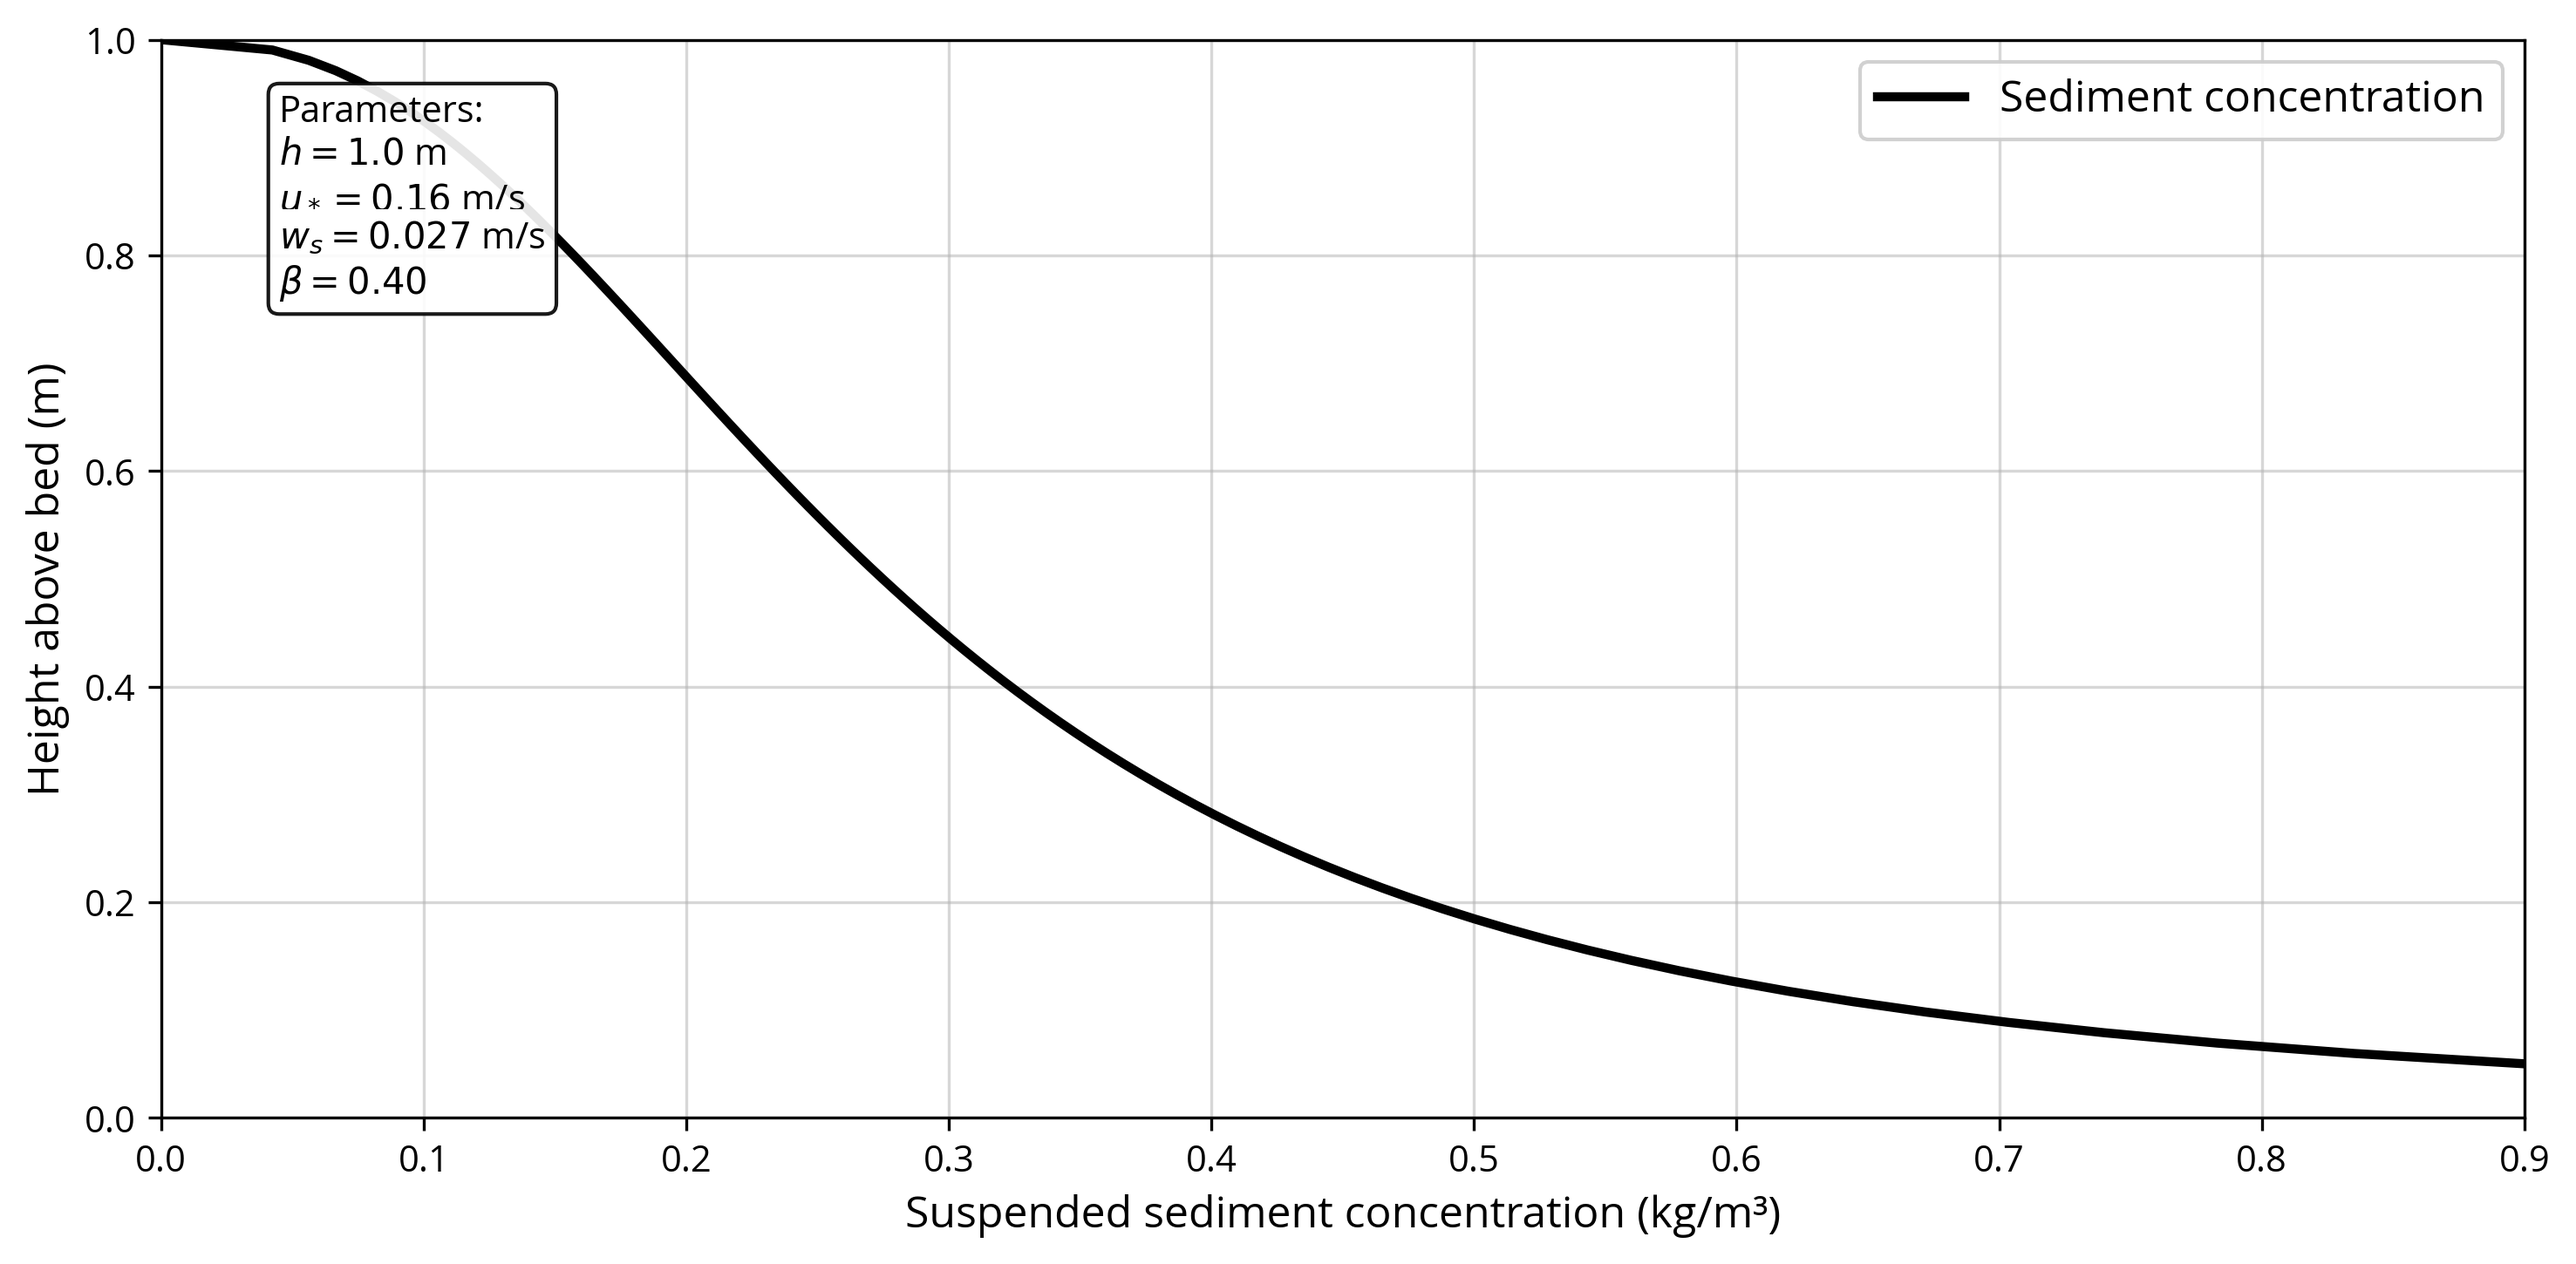
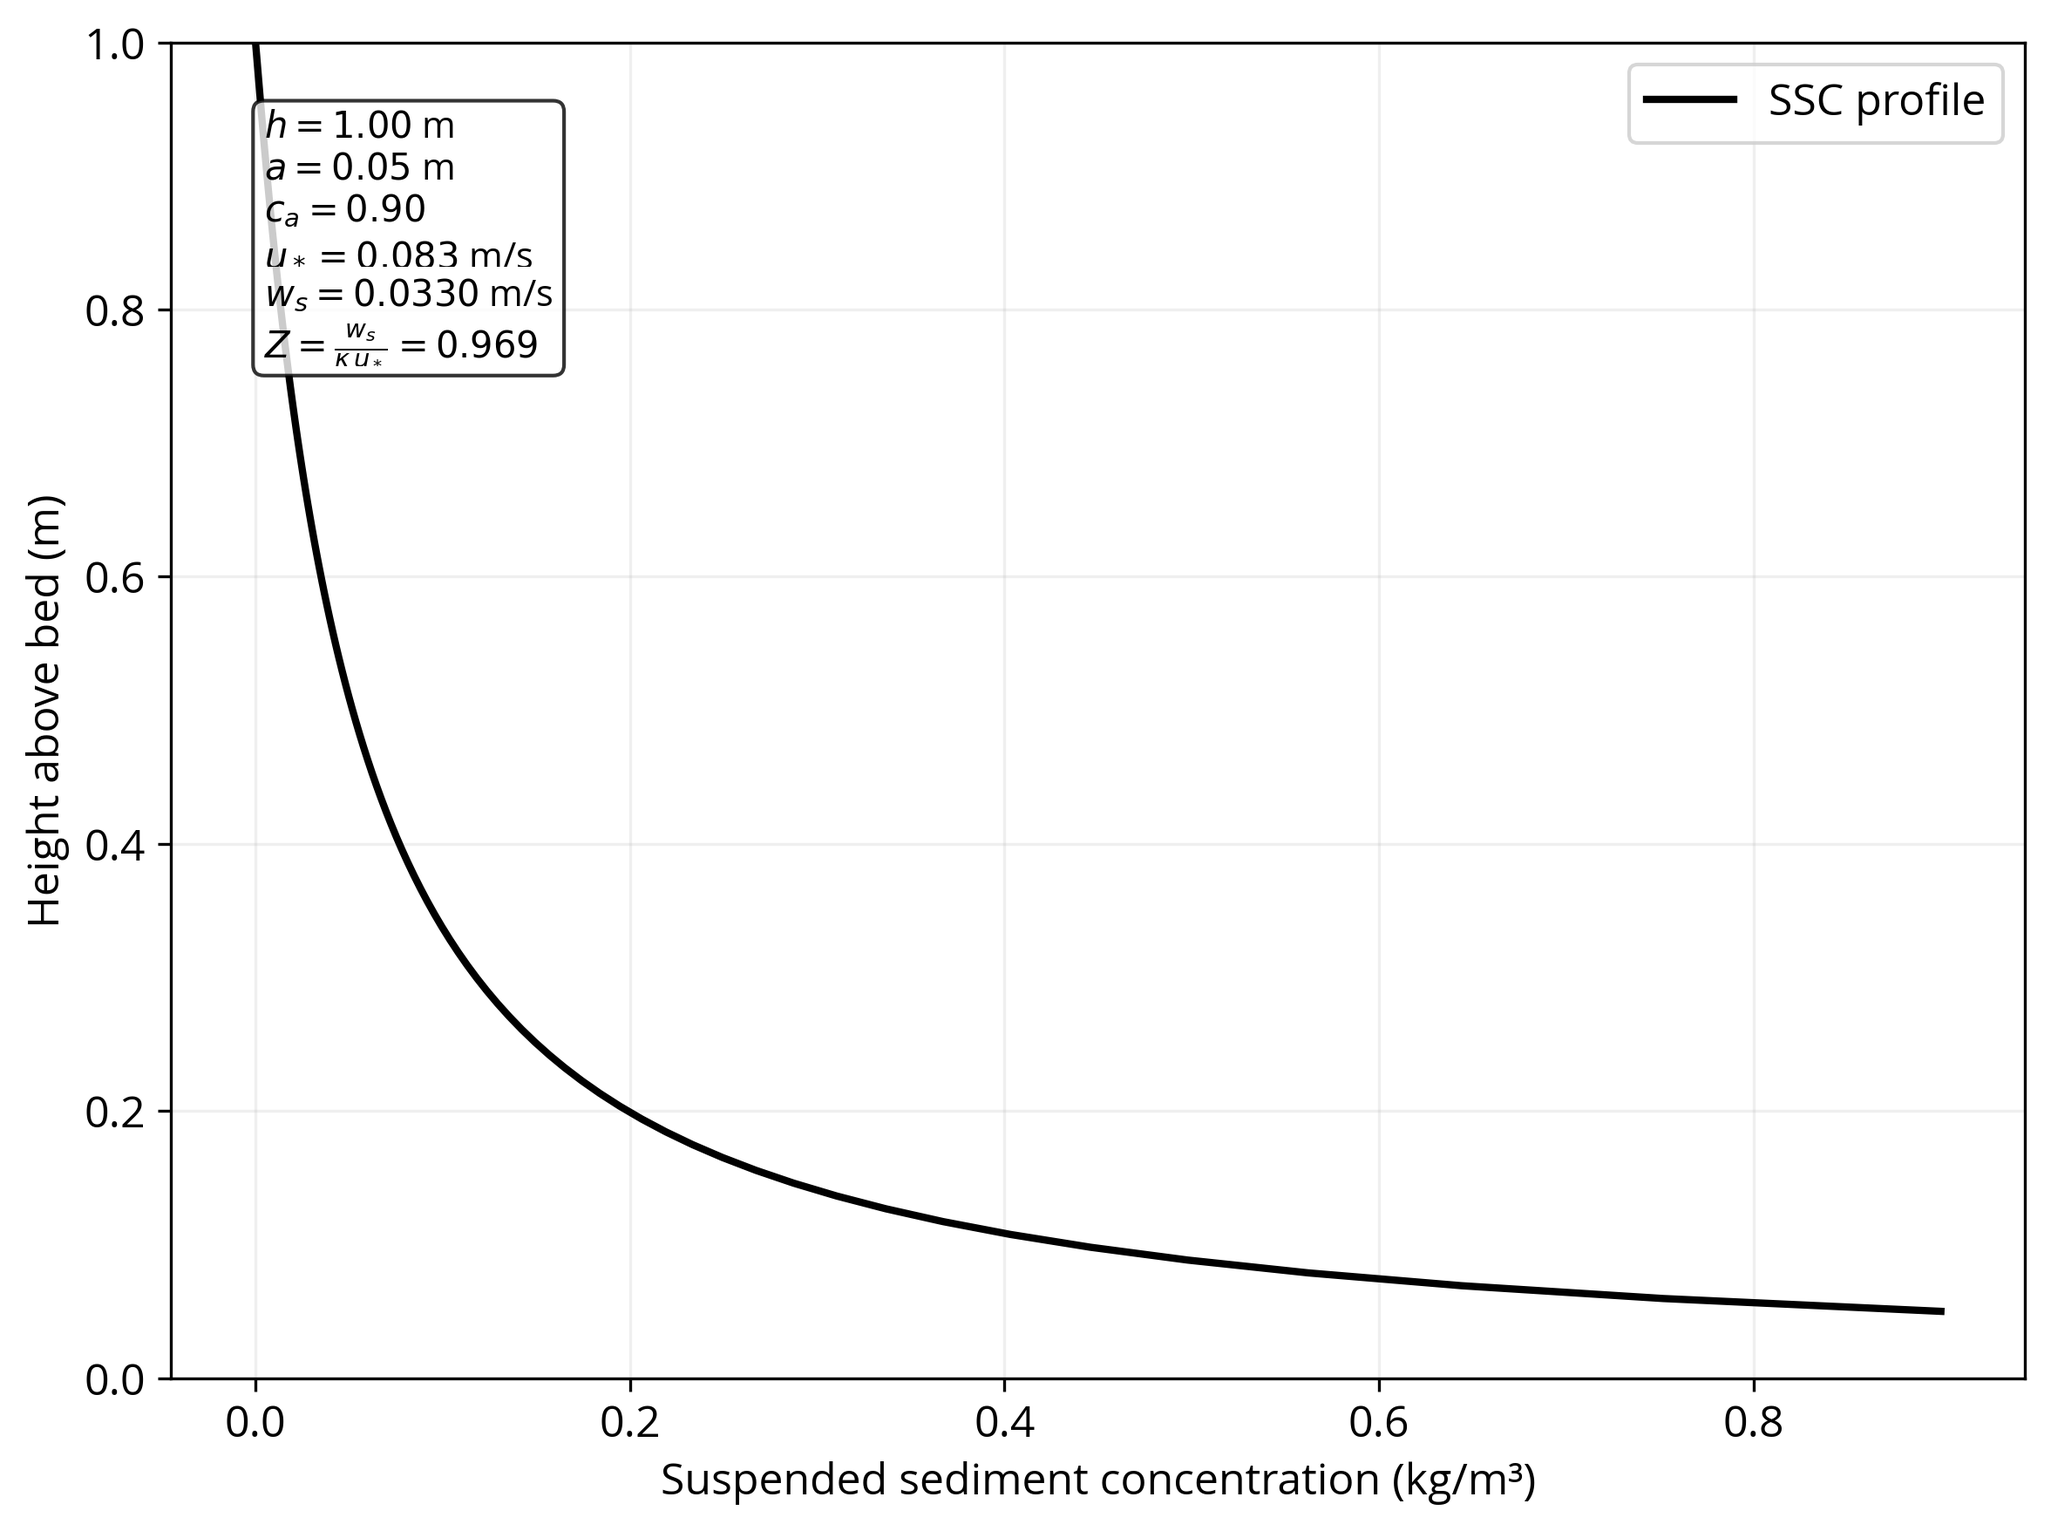
added sweep function

diff --git a/Rouse-profile-app/plot_Rouse_profile_ssc.py b/Rouse-profile-app/plot_Rouse_profile_ssc.py
@@ -3,21 +3,21 @@ import math
 import numpy as np
 import matplotlib.pyplot as plt
 
-# USER INPUT PARAMETERS
-USER_FLOW_VELOCITY = 2.1  # m/s
-USER_WATER_DEPTH = 1.0    # m 
-USER_D50 = 200e-6        # m (200 micro m, typical suspended sediment size)
-USER_REF_HEIGHT = 0.05    # m (reference height above bed)
-USER_REF_CONC = 0.9      # kg/m³ (typical reference concentration)
+# USER INPUT PARAMETERS (defaults)
+USER_FLOW_VELOCITY = 2.1   # m/s
+USER_WATER_DEPTH   = 1.0   # m
+USER_D50           = 200e-6 # m
+USER_REF_HEIGHT    = 0.05  # m
+USER_REF_CONC      = 0.90  # kg/m³
 
 # CONSTANTS
 RHO_F = 1000.0  # water density (kg/m³)
 RHO_S = 2650.0  # sediment grain density (kg/m³)
-MU = 0.001      # dynamic viscosity (Pa*s)
-G = 9.81        # gravitational acceleration (m/s²)
-KAPPA = 0.41    # von Karman constant (-)
+MU    = 0.001   # dynamic viscosity (Pa·s)
+G     = 9.81    # gravitational acceleration (m/s²)
+KAPPA = 0.41    # von Kármán constant (-)
 
-# Set global font and style
+# Optional style settings
 plt.rcParams['axes.grid'] = True
 plt.rcParams['grid.alpha'] = 0.2
 plt.rcParams['font.family'] = 'Open Sans'
@@ -25,122 +25,172 @@ plt.rcParams['font.size'] = 12
 
 
 def get_particle_settling_velocity(U, h, d, print_results=True):
-    """Calculate particle settling velocity w_s using van Rijn (1984) method"""
+    """
+    Calculate particle settling velocity w_s using a simplified 
+    van Rijn (1984) approach.
+    """
     # Dimensionless particle diameter
     D_star = d * ((RHO_S - RHO_F) * G / (RHO_F * MU**2))**(1/3)
     
-    # Calculate settling velocity based on D_star (van Rijn, 1984)
+    # Calculate settling velocity based on D_star
     if D_star <= 10:
-        ws = ((RHO_S - RHO_F) * G * d**2) / (18 * MU)  # Stokes
+        # Stokes
+        ws = ((RHO_S - RHO_F) * G * d**2) / (18 * MU)
     elif D_star <= 1000:
-        ws = (MU/RHO_F) * (10.0/d) * (((1 + 0.01 * D_star**3)**0.5) - 1)
+        # Transitional
+        ws = (MU / RHO_F) * (10.0 / d) * ((1 + 0.01 * D_star**3)**0.5 - 1)
     else:
+        # Turbulent
         ws = 1.1 * ((RHO_S - RHO_F) * G * d / RHO_F)**0.5
-        
-    # Apply turbulent correction
-    Fr = U / math.sqrt(G * h)
-    correction_factor = 1 / (1 + 0.2 * Fr**2)  # Modified correction factor
+    
+    # Optional correction factor for turbulence intensity (semi-empirical)
+    Fr = U / math.sqrt(G * h)  # Froude number
+    correction_factor = 1 / (1 + 0.2 * Fr**2)
     ws_effective = ws * correction_factor
 
     if print_results:
-        print(f"Settling velocity: {ws_effective:.3f} m/s")
-        print(f"Dimensionless particle diameter: {D_star:.1f}")
-        
+        print(f"Settling velocity (w_s): {ws_effective:.4f} m/s")
+        print(f"Dimensionless D*:       {D_star:.2f}")
     return ws_effective
 
 
 def get_u_star(U, h, d):
-    """Calculate friction velocity using Nikuradse roughness"""
-    # Nikuradse roughness height
+    """
+    Estimate friction velocity using a Colebrook-White friction factor
+    with Nikuradse roughness ~ 2.5*d_50.
+    """
     ks = 2.5 * d
-    
-    # Friction coefficient using Colebrook-White
+    # Colebrook-White friction factor (rough, simplified)
     f = 0.24 / (math.log10(12 * h / ks))**2
-    
-    # Compute u_star
+    # Friction velocity
     u_star = U * math.sqrt(f/8)
     return u_star
 
 
-def plot_Rouse_profile(a=DEFAULT_REF_HEIGHT, c_a=DEFAULT_REF_CONC, 
-                      w_s=None, u_star=None, h=DEFAULT_WATER_DEPTH,
-                      show_plot=False):
+def plot_rouse_profile(w_s,
+                       u_star,
+                       h,
+                       a=USER_REF_HEIGHT,
+                       c_a=USER_REF_CONC,
+                       show_plot=False,
+                       filename="ssc-Rouse-profile.png"):
     """
-    Plot the Rouse profile for suspended sediment concentration
-    """
-    if w_s is None or u_star is None:
-        U = USER_FLOW_VELOCITY
-        d = DEFAULT_D50
-        w_s = get_particle_settling_velocity(U, h, d, print_results=False)
-        u_star = get_u_star(U, h, d)
+    Plot a single Rouse-type suspended sediment concentration profile 
+    for a given settling velocity w_s, friction velocity u_star, 
+    water depth h, reference height a, and reference concentration c_a.
 
+    Saves output as 'ssc-Rouse-profile.png' unless 'filename' is changed.
+    """
     # Compute Rouse number
-    beta = w_s / (KAPPA * u_star)
-    print(f"Rouse number: {beta:.2f}")
-
-    # Generate vertical positions
+    if u_star == 0:
+        # Avoid division by zero
+        beta = 0.0
+    else:
+        beta = w_s / (KAPPA * u_star)
+    print(f"Rouse number (beta) = {beta:.3f}")
+    
+    # Create a vertical array from near-bed 'a' up to 'h'
     z = np.linspace(a, h, 100)
+    # Rouse formula: C(z) = c_a * [ (a*(h - z)) / (z*(h - a)) ] ^ beta
     c = c_a * ((a * (h - z)) / (z * (h - a)))**beta
 
-    # Create plot with wider aspect ratio
-    fig, ax = plt.subplots(figsize=(10, 5))  # Changed to landscape format
-    
-    # Plot profile with thicker line
-    ax.plot(c, z, 'k-', linewidth=2.5, label='Sediment concentration')
-    
-    # Labels and title with adjusted font sizes
-    ax.set_xlabel('Suspended sediment concentration (kg/m³)')
-    ax.set_ylabel('Height above bed (m)')
-    
-    # Grid and legend
-    ax.grid(True, which="both", ls="-", alpha=0.5)
-    ax.legend(loc='upper right', framealpha=0.9)
-    
-    # Set axis limits
-    ax.set_xlim(0, round(max(c), 2))  # Slightly reduced right margin
-    ax.set_ylim(0, h)
-    
-    # Adjust tick parameters
-    ax.tick_params(axis='both', which='major', labelsize=10)
-    
-    # Add parameter text box in the upper left
-    props = dict(boxstyle='round', facecolor='white', alpha=0.9)
+    # Plot
+    fig, ax = plt.subplots(figsize=(8, 6))
+    ax.plot(c, z, 'k-', linewidth=2.0, label='SSC profile')
+
+    ax.set_xlabel("Suspended sediment concentration (kg/m³)")
+    ax.set_ylabel("Height above bed (m)")
+    ax.set_ylim([0, h])
+    ax.grid(True)
+
+    # Show a text box with relevant parameters
     textstr = '\n'.join((
-        r'Parameters:',
-        r'$h=%.1f$ m' % (h, ),
-        r'$u_*=%.2f$ m/s' % (u_star, ),
-        r'$w_s=%.3f$ m/s' % (w_s, ),
-        r'$\beta=%.2f$' % (beta, )))
+        r'$h=%.2f$ m'    % (h, ),
+        r'$a=%.2f$ m'    % (a, ),
+        r'$c_a=%.2f$'    % (c_a, ),
+        r'$u_* = %.3f$ m/s'  % (u_star,),
+        r'$w_s = %.4f$ m/s'  % (w_s,),
+        r'$Z = \frac{w_s}{\kappa\,u_*} = %.3f$' % (beta,),
+    ))
+    props = dict(boxstyle='round', facecolor='white', alpha=0.8)
     ax.text(0.05, 0.95, textstr, transform=ax.transAxes, fontsize=10,
             verticalalignment='top', bbox=props)
 
-    # Adjust layout
+    ax.legend(loc='upper right')
+
     plt.tight_layout()
-    
-    # Save with higher quality and exact size for A4 width
-    plt.savefig('ssc-Rouse-profile.png', dpi=300, bbox_inches='tight',
-                pad_inches=0.1)
-    
-    if show_plot:  # Only show if explicitly requested
+
+    # Save figure
+    if filename:
+        plt.savefig(filename, dpi=300, bbox_inches='tight')
+    if show_plot:
         plt.show()
     else:
-        plt.close()  # Close the figure to free memory
+        plt.close()
 
 
+def plot_rouse_sweep(a=USER_REF_HEIGHT,
+                     c_a=USER_REF_CONC,
+                     h=USER_WATER_DEPTH,
+                     z_points=100,
+                     show_plot=True,
+                     filename=None):
+    """
+    Sweep a range of Rouse numbers from 1/32 to 4, 
+    and plot a family of curves in a single figure.
+    """
+    rouse_values = np.geomspace(1/32, 4, num=20)
+    z = np.linspace(a, h, z_points)
+
+    fig, ax = plt.subplots(figsize=(10,5))
+    cmap = plt.cm.cool
+    norm = plt.Normalize(vmin=rouse_values[0], vmax=rouse_values[-1])
+
+    for Z in rouse_values:
+        c = c_a * ((a*(h - z)) / (z*(h - a)))**Z
+        color = cmap(norm(Z))
+        ax.plot(c, z, color=color)
+
+    # Colorbar
+    sm = plt.cm.ScalarMappable(cmap=cmap, norm=norm)
+    sm.set_array([])
+    cbar = plt.colorbar(sm, ax=ax)  # attach colorbar to current axes
+    cbar.set_label("Rouse number (Z)")
+
+    ax.set_xlabel("Suspended sediment concentration (kg/m³)")
+    ax.set_ylabel("Height above bed (m)")
+    ax.set_xlim(left=0)
+    ax.set_ylim([0, h])
+    ax.set_title("Suspended Sediment Concentration Profiles\n(Rouse Number Sweep)")
+
+    plt.tight_layout()
+    
+    if filename:
+        plt.savefig(filename, dpi=300, bbox_inches='tight')
+    if show_plot:
+        plt.show()
+    else:
+        plt.close()
+
+
+# If you run this file directly for a quick test:
 if __name__ == "__main__":
-    # Use default values for Dutch Rhine
     U = USER_FLOW_VELOCITY
-    h = DEFAULT_WATER_DEPTH
-    d = DEFAULT_D50
-    
-    print(f"Flow velocity: {U} m/s")
-    print(f"Water depth: {h} m")
-    print(f"Median grain size: {d*1e6:.0f} μm")
-    
-    # Calculate parameters
+    h = USER_WATER_DEPTH
+    d = USER_D50
+
     w_s = get_particle_settling_velocity(U, h, d)
     u_star = get_u_star(U, h, d)
-    
-    # Plot profile with show_plot=True for command line usage
-    plot_Rouse_profile(w_s=w_s, u_star=u_star, h=h, show_plot=True)
 
+    # Example single-profile plot
+    plot_rouse_profile(w_s, u_star, h, 
+                       a=USER_REF_HEIGHT, c_a=USER_REF_CONC,
+                       show_plot=True, 
+                       filename="ssc-Rouse-profile.png")
+
+    # Example sweep
+    plot_rouse_sweep(a=USER_REF_HEIGHT, 
+                     c_a=USER_REF_CONC, 
+                     h=USER_WATER_DEPTH,
+                     show_plot=True, 
+                     filename="ssc-Rouse-sweep.png")

diff --git a/Rouse-profile-app/app.py b/Rouse-profile-app/app.py
@@ -22,17 +22,27 @@ def open_browser():
 # Generate default plot at startup
 def generate_default_plot():
     U = rouse.USER_FLOW_VELOCITY
-    h = rouse.DEFAULT_WATER_DEPTH
-    d = rouse.DEFAULT_D50
+    h = rouse.USER_WATER_DEPTH
+    d = rouse.USER_D50
     w_s = rouse.get_particle_settling_velocity(U, h, d, print_results=False)
     u_star = rouse.get_u_star(U, h, d)
-    rouse.plot_Rouse_profile(w_s=w_s, u_star=u_star, h=h)
+    # Generate a single Rouse profile
+    rouse.plot_rouse_profile(
+        w_s=w_s,
+        u_star=u_star,
+        h=h,
+        a=rouse.USER_REF_HEIGHT,
+        c_a=rouse.USER_REF_CONC,
+        show_plot=False,
+        filename="ssc-Rouse-profile.png"
+    )
 
 @app.route('/')
 def home():
     # Ensure default plot exists
     if not os.path.exists('ssc-Rouse-profile.png'):
         generate_default_plot()
+    # Return your homepage
     return send_file('index.html')
 
 @app.route('/calculate', methods=['POST'])
@@ -41,23 +51,34 @@ def calculate():
     
     # Convert grain size from μm to m
     velocity = float(data['velocity'])
-    depth = float(data['depth'])
-    grain_size = float(data['grain_size']) * 1e-6  # Convert μm to m
-    
+    depth    = float(data['depth'])
+    grain_size = float(data['grain_size']) * 1e-6  # Convert μm -> m
+
     # Calculate parameters
     w_s = rouse.get_particle_settling_velocity(velocity, depth, grain_size, print_results=False)
     u_star = rouse.get_u_star(velocity, depth, grain_size)
-    
-    # Generate plot
-    rouse.plot_Rouse_profile(w_s=w_s, u_star=u_star, h=depth)
+
+    # Generate the single-profile plot for these inputs
+    rouse.plot_rouse_profile(
+        w_s=w_s,
+        u_star=u_star,
+        h=depth,
+        a=rouse.USER_REF_HEIGHT,
+        c_a=rouse.USER_REF_CONC,
+        show_plot=False,
+        filename="ssc-Rouse-profile.png"
+    )
     
     # Calculate Rouse number
-    beta = w_s / (rouse.KAPPA * u_star)
+    beta = 0.0
+    if u_star != 0.0:
+        beta = w_s / (rouse.KAPPA * u_star)
     
+    # Return JSON with interesting values
     return jsonify({
         'settling_velocity': w_s,
-        'shear_velocity': u_star,
-        'rouse_number': beta
+        'shear_velocity'   : u_star,
+        'rouse_number'     : beta
     })
 
 @app.route('/ssc-Rouse-profile.png')
@@ -68,7 +89,7 @@ def get_image():
     return send_file('ssc-Rouse-profile.png', mimetype='image/png')
 
 if __name__ == '__main__':
-    # Ensure the index.html is in the same directory as app.py
+    # Check for index.html
     if not os.path.exists('index.html'):
         print("Warning: index.html not found in the current directory!")
     
@@ -80,4 +101,4 @@ if __name__ == '__main__':
         Timer(1.5, open_browser).start()
     
     # Run the Flask app
-    app.run(debug=True) 
+    app.run(debug=True)
